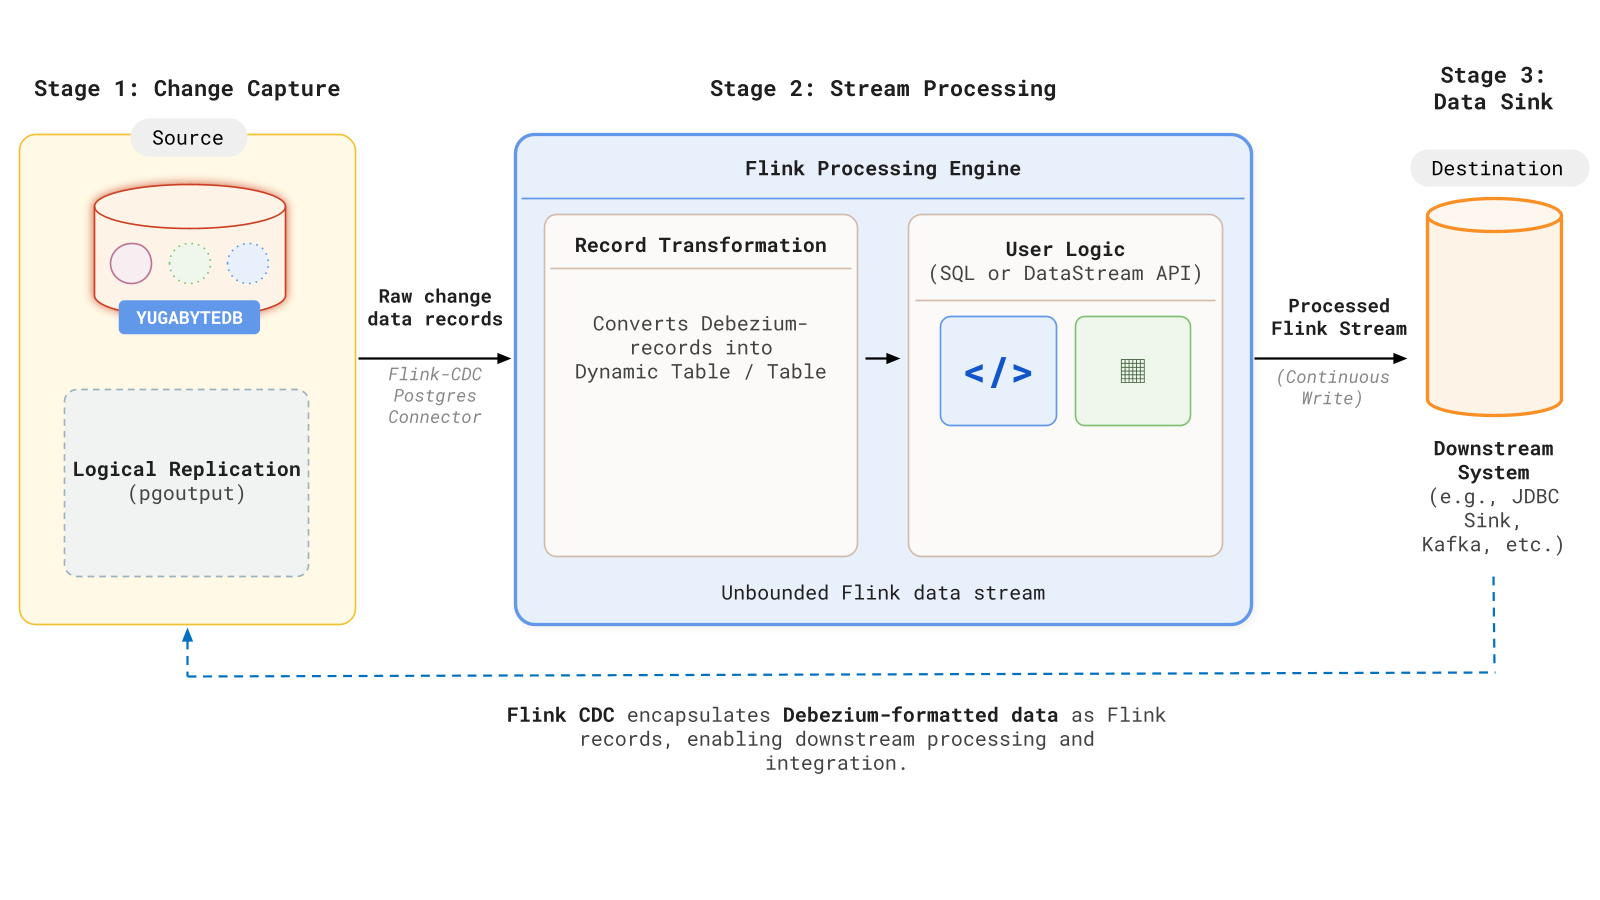
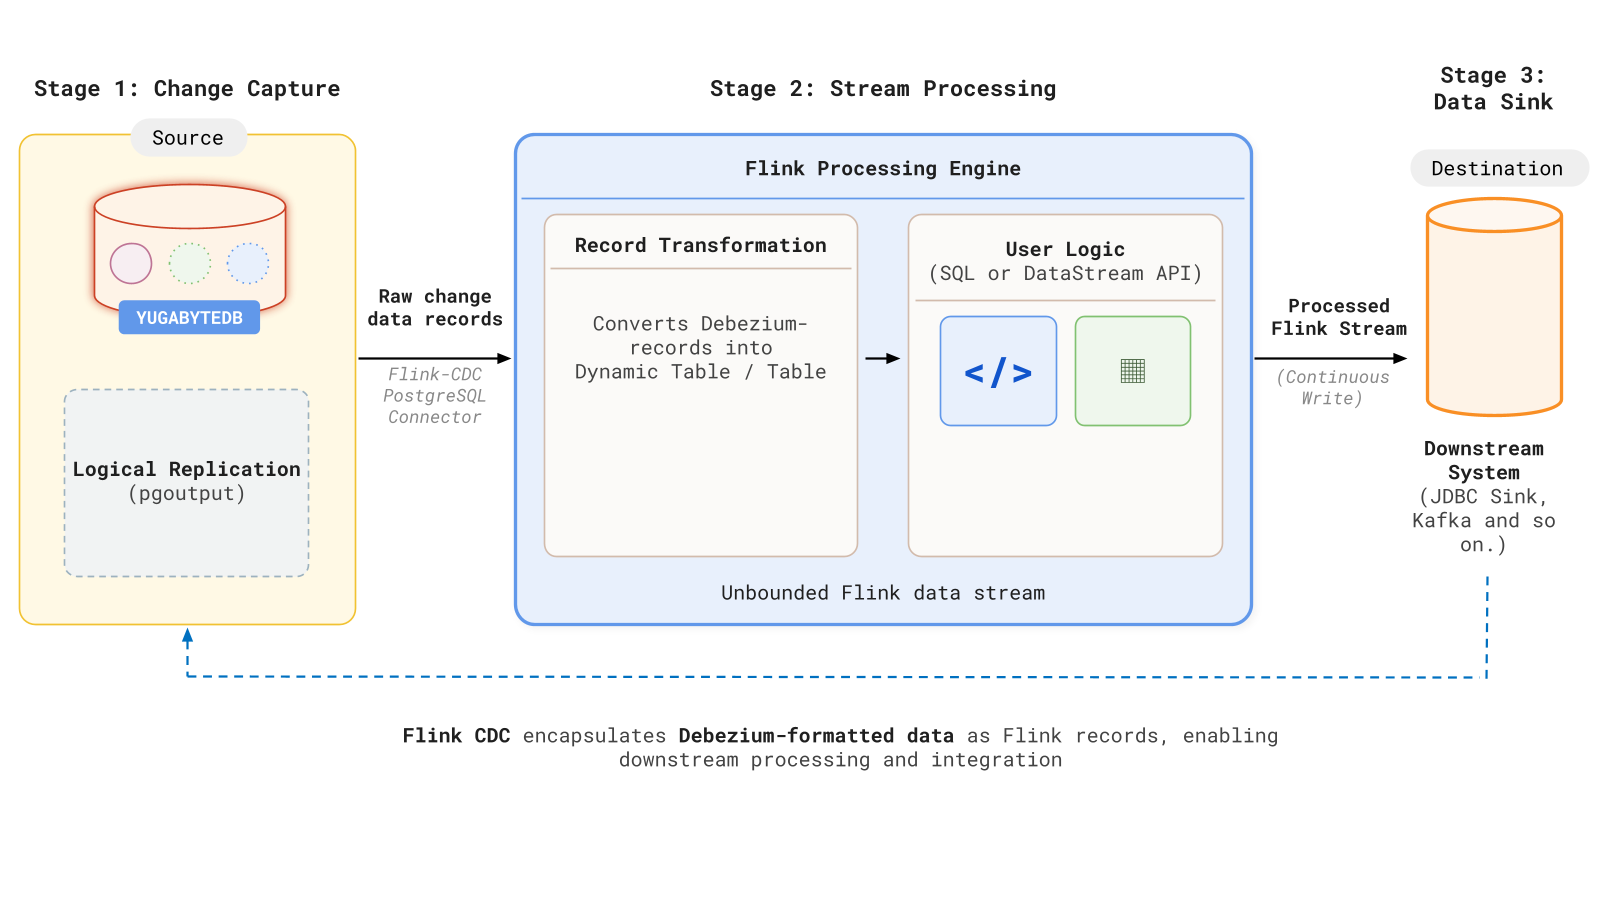
some comments

Changed region(s): [[0.25, 0.7467, 0.9062, 0.8711], [0.875, 0.4667, 0.9688, 0.6222], [0.25, 0.4356, 0.3125, 0.4667]]

diff --git a/docs/content/stable/additional-features/change-data-capture/using-flink-cdc/_index.md b/docs/content/stable/additional-features/change-data-capture/using-flink-cdc/_index.md
@@ -16,7 +16,7 @@ type: indexpage
 showRightNav: true
 ---
 
-[Flink CDC](https://nightlies.apache.org/flink/flink-cdc-docs-stable/) is a data integration framework built on [Apache Flink](https://flink.apache.org/) that captures row-level changes from operational databases and continuously applies them to downstream systems. Using Flink CDC with YugabyteDB as a source database enables you to stream change events for the following use cases:
+[Flink CDC](https://nightlies.apache.org/flink/flink-cdc-docs-stable/) is a data integration framework that combines [Apache Flink](https://flink.apache.org/) stream processing with [Debezium](https://debezium.io/) change capture to read row-level changes from operational databases and continuously apply them to downstream systems. Using Flink CDC with YugabyteDB as a source database enables you to stream change events for the following use cases:
 
 - Real-time data propagation: Stream YugabyteDB changes to Kafka, Elasticsearch, Iceberg, or data lakes.
 - Operational analytics: Feed a warehouse or lakehouse continuously.